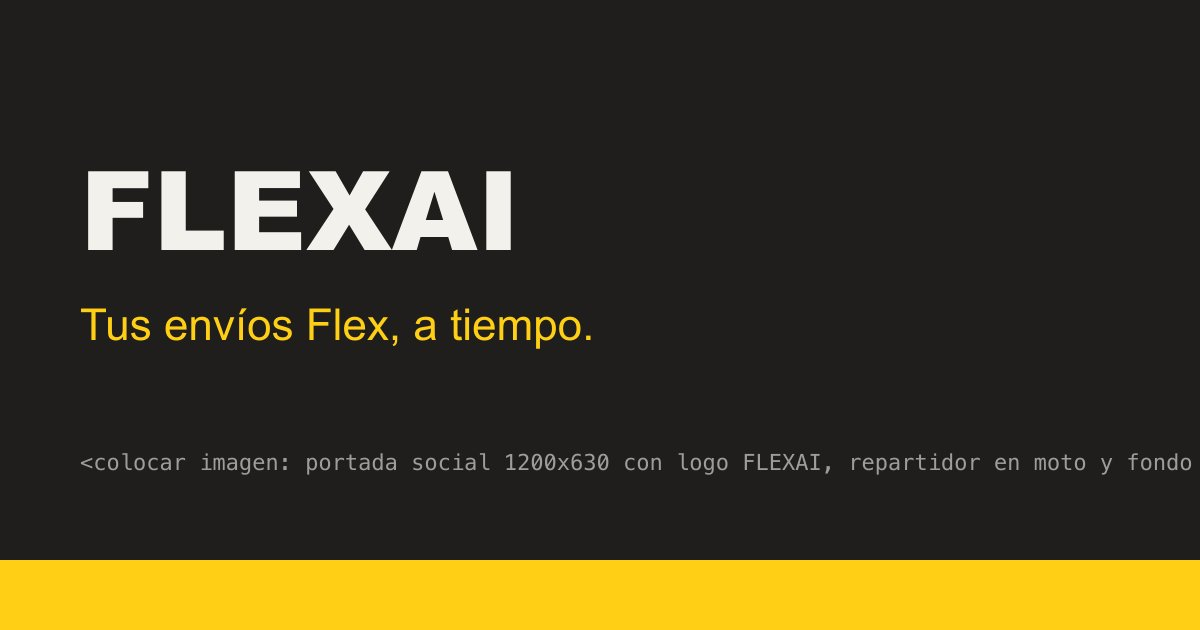
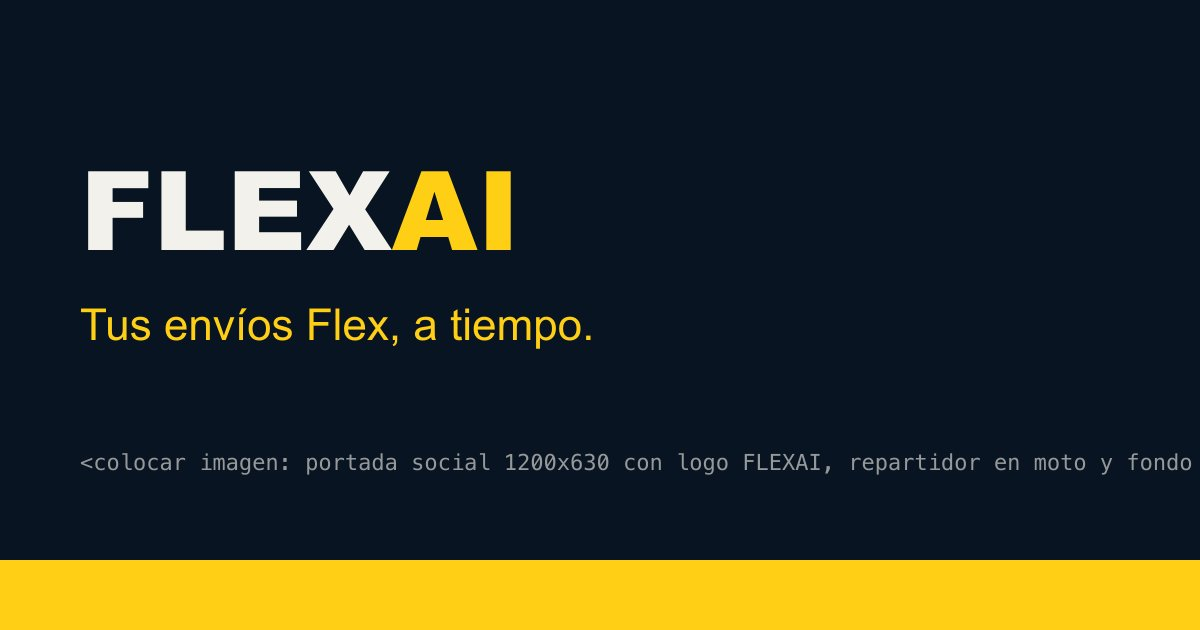
style: switch the dark base to very dark FLEXAI blues

diff --git a/src/styles/theme.css b/src/styles/theme.css
@@ -6,10 +6,10 @@
  * In plain CSS use them as rgb(var(--color-accent)) or rgb(var(--color-accent) / 0.5).
  */
 :root {
-  /* Dark base: page backgrounds, dark sections, text on light surfaces. */
-  --color-ink: 31 30 29;
-  --color-ink-soft: 41 39 39;
-  --color-ink-muted: 58 56 54;
+  /* Dark base (very dark FLEXAI blues): dark sections and text on light surfaces. */
+  --color-ink: 8 20 33;
+  --color-ink-soft: 14 30 48;
+  --color-ink-muted: 27 46 68;
 
   /* Light base: page background and text on dark surfaces. */
   --color-cream: 243 241 235;
@@ -18,7 +18,7 @@
 
   /* Brand accent (buttons, highlights) and the text color used on top of it. */
   --color-accent: 255 207 21;
-  --color-on-accent: 31 30 29;
+  --color-on-accent: 8 20 33;
 
   /* Secondary brand color, used sparingly for details. */
   --color-secondary: 13 57 90;
@@ -30,5 +30,5 @@
   --color-zone-1: 255 207 21;
   --color-zone-2: 217 197 144;
   --color-zone-3: 157 184 207;
-  --color-zone-4: 74 123 167;
+  --color-zone-4: 92 142 190;
 }

diff --git a/src/data/site.ts b/src/data/site.ts
@@ -17,7 +17,7 @@ export const SITE = {
   instagram: "https://instagram.com/flexai.logistica",
   ogImage: "/assets/og-image.jpg",
   // Browser UI color (mobile address bar). Meta tags can't read CSS variables: keep in sync with --color-ink.
-  browserThemeColor: "#1F1E1D",
+  browserThemeColor: "#081421",
 } as const;
 
 export function whatsappUrl(message?: string): string {
